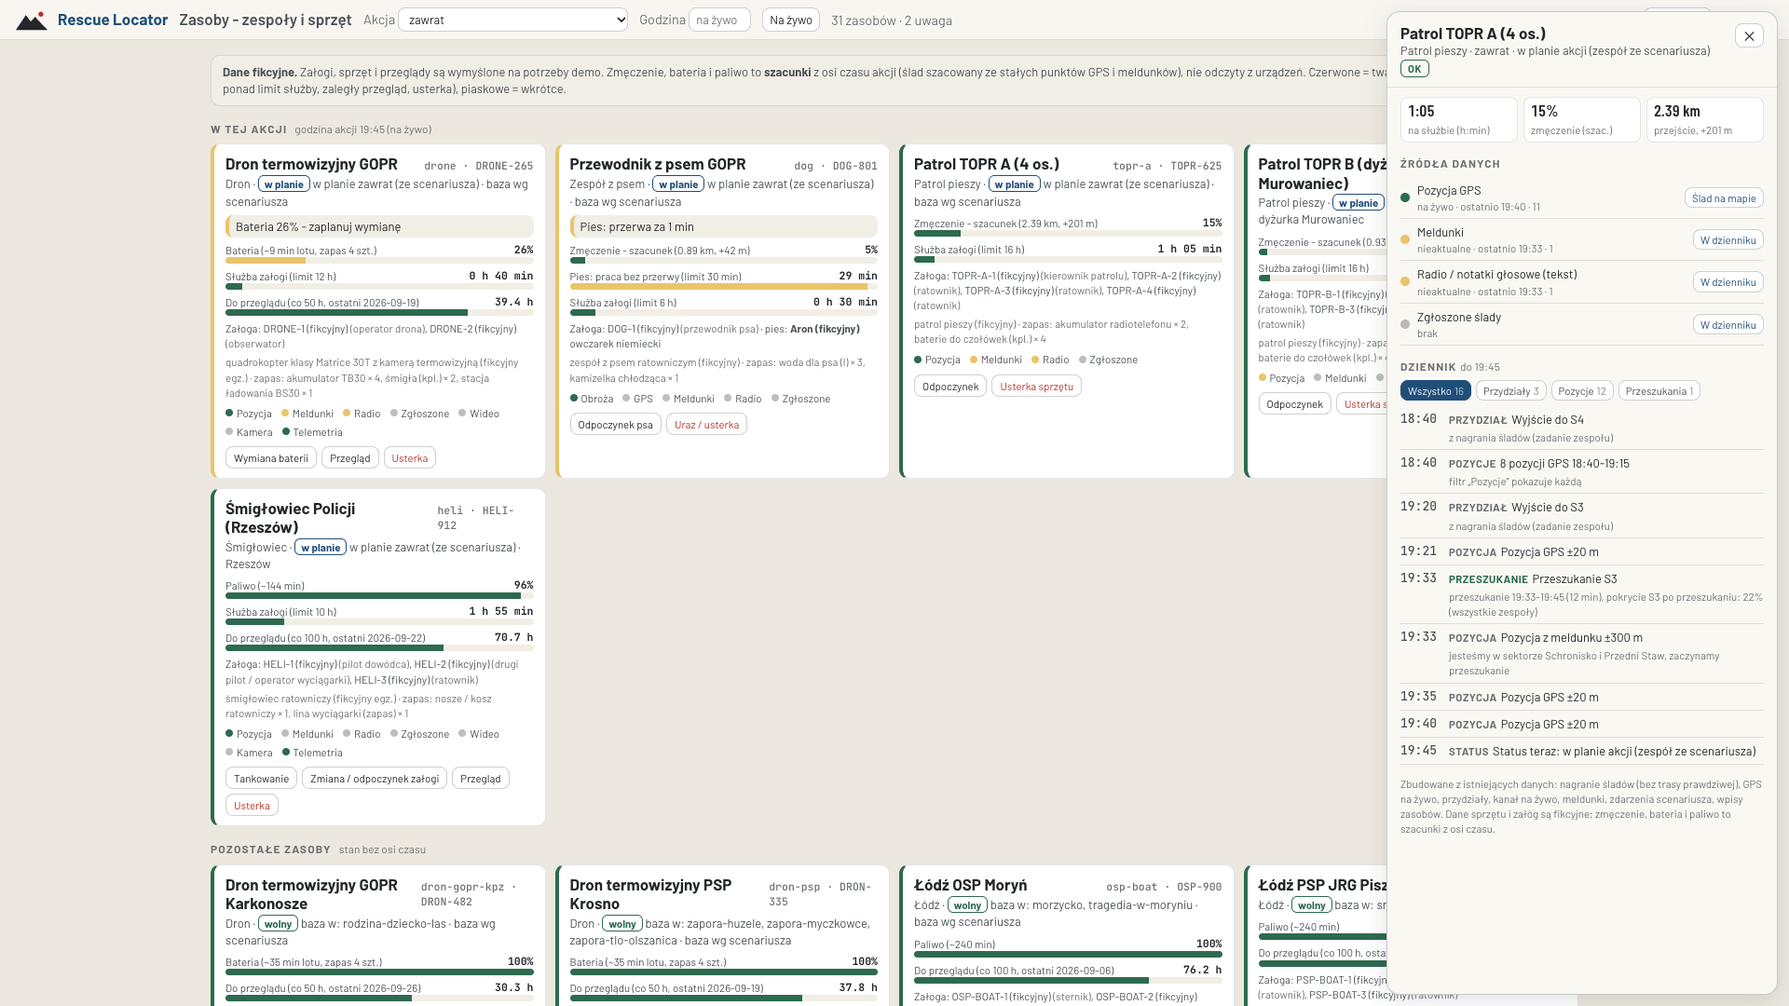
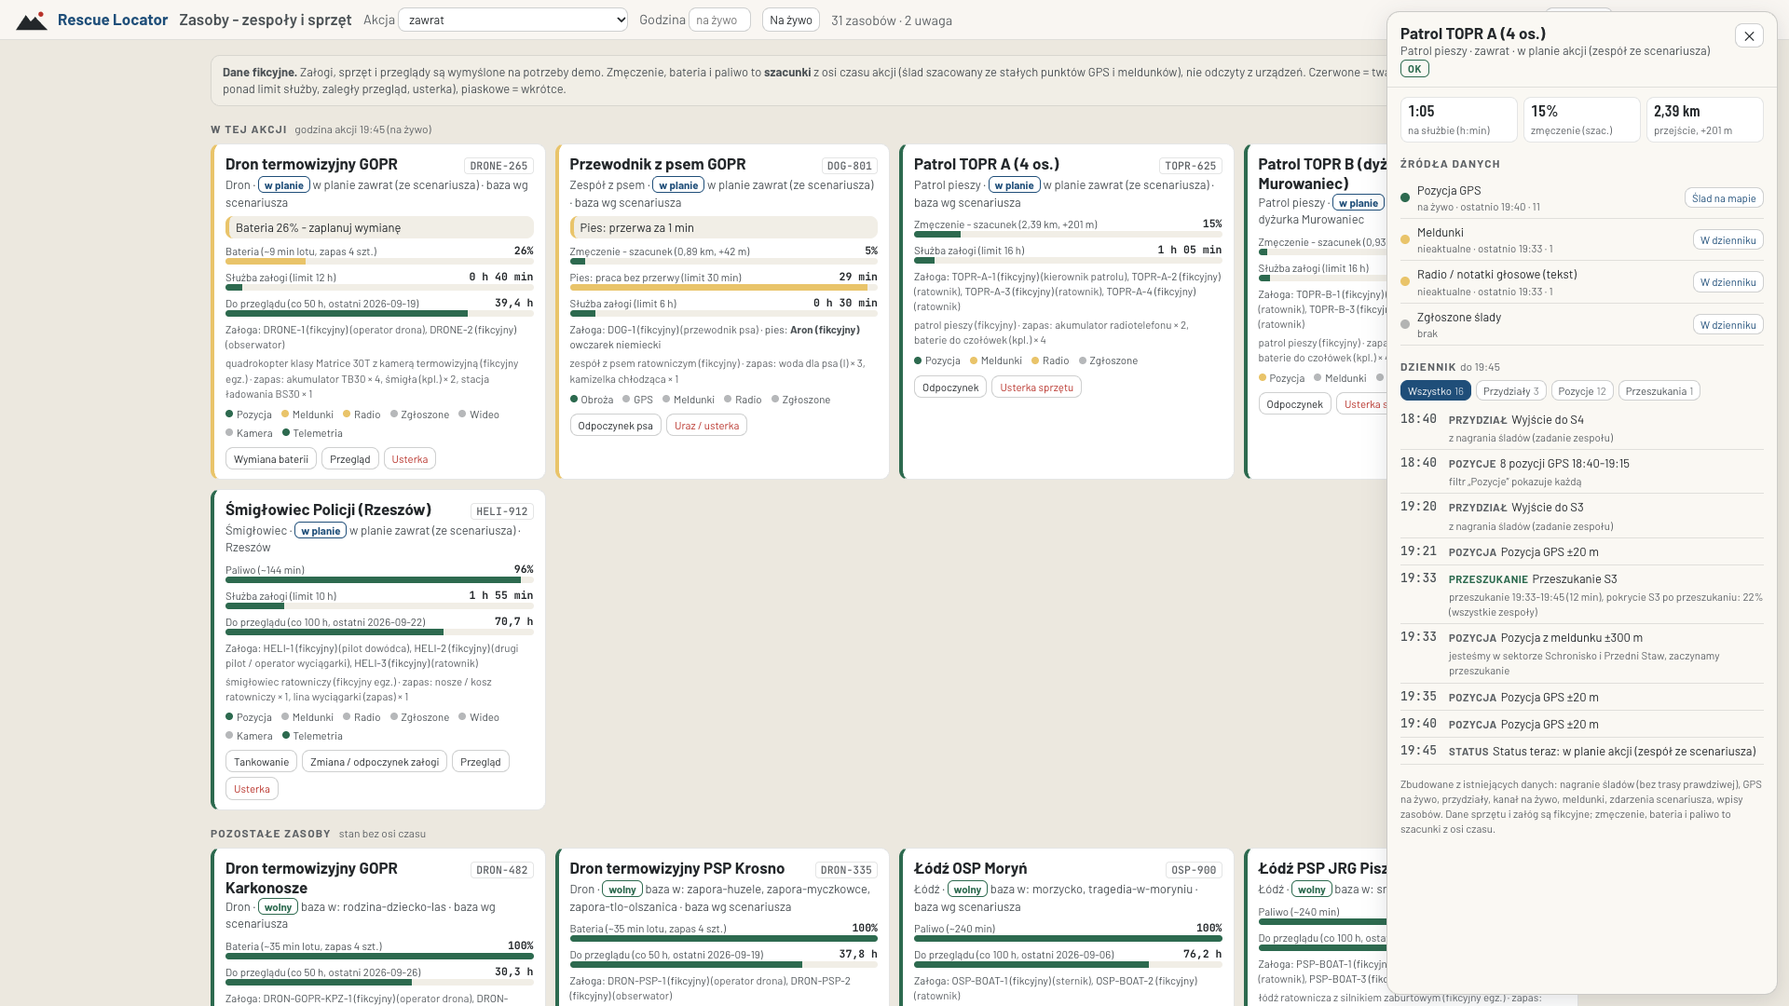
docs(rescue): screenshot series 4 on dd890df - all shots retaken, new 21-27 (Doradca bar, Czat, 3D framing, Odprawa, karty, rodzina, Sygnaly) and 1440 variants

diff --git a/docs/rescue-locator/shots/index.md b/docs/rescue-locator/shots/index.md
@@ -1,57 +1,73 @@
 # Zrzuty ekranu - Rescue Locator (do slajdów i filmu)
 
-Seria 3: produkcja https://rescue-locator.vercel.app, 2026-10-04 ok. 00:47-00:51. Wersja z /version.json: `9342527` (01-09: nowa oś czasu w doku 1x-30x z grupowanymi zdarzeniami, serwer Rust, płynne 2D/3D), w trakcie sesji wdrożono `0354c39` ("perf(rescue): 3D load bakes the terrain colour texture...") - na niej najpewniej zrobione 04-centrum-zwiniety, 16-20. Wersja widoczna też w stopce aplikacji (`v ...` w prawym dolnym rogu). Ujęcia 10-15 są z serii 2 (2026-10-03 ok. 22:04-22:37, wersje `57aaf6e` / `664f619` / `7559515`) i nie były powtarzane.
+Seria 4 (przed zamrożeniem o 05:00): produkcja https://rescue-locator.vercel.app, 2026-10-04 ok. 03:48-03:56. Wersja z /version.json: `dd890df` ("fix(rescue): 2D sector chips say only przeszukany..."), ta sama widoczna w stopce aplikacji (`v dd890df` w prawym dolnym rogu). Wszystkie ujęcia 01-20 powtórzone na tej wersji (także 10-15, które w serii 3 były ze starszej wersji), plus nowe 21-27 i warianty 1440 px dla 01 i 02.
 
-Metoda: tylko odczyt. Headless Chrome (`--headless=new --enable-unsafe-swiftshader --ignore-gpu-blocklist`) sterowany przez CDP z Node, wszystkie żądania inne niż GET/HEAD/OPTIONS blokowane (Fetch.requestPaused), żadnych kliknięć zapisujących (jedyne kliknięcie: "Zwiń" w panelu Doradca w Centrum, tylko widok). Podpowiedź pierwszego uruchomienia wyłączona przez localStorage (`rescue-app-hint-operator`, `rescue-app-hint-ratownik`). Ekran 1920 x 1080, telefon 390 x 844 (x2). 2D: 25 s czekania; 3D: czekanie aż `body[data-state=ready]` (w serii 3 gotowe po ok. 6 s), potem 10 s. Pliki powyżej ~1,5 MB zmniejszone (`sips -Z`) do 1280-1440 px szerokości. Numery funkcji jak w `../najmocniejsze-funkcje.md`.
+Metoda: tylko odczyt. Headless Chrome (`--headless=new --enable-unsafe-swiftshader --ignore-gpu-blocklist`) sterowany przez CDP z Node, w każdej ramce (auto-attach do iframe) blokowane wszystkie żądania inne niż GET/HEAD/OPTIONS (Fetch.requestPaused) - w tej serii żadne żądanie nie musiało zostać zablokowane. Podpowiedź pierwszego uruchomienia wyłączona przez localStorage (`rescue-app-hint-operator`, `rescue-app-hint-ratownik`). Po załadowaniu ruch myszy (3D czeka na zdarzenie wskaźnika), przed zrzutem wskaźnik odsunięty na logo / legendę, żeby nie było dymka terenu. Kliknięcia tylko widokowe: "Rozwiń" w Doradcy (04), przycisk ☰ Sygnały (26), otwarcie szuflady Czatu (22), Kino (15). Ekran 1920 x 1080 (01 i 02 także 1440 x 900 jako `*-1440.png`), telefon 390 x 844 (x2). 2D: czekanie aż mapa 2D ma `data-state=ready`, potem 6-8 s; 3D: czekanie aż `body[data-state=ready]`, potem 3-12 s. Pliki powyżej ~1,4 MB zmniejszone (`sips -Z`) do 1200-1440 px szerokości. Numery funkcji jak w `../najmocniejsze-funkcje.md`.
 
-Skróty URL: `A` = `/app/?role=operator&mode=akcja`, `E3` = `/app/3d/?embed=scene&sc=zawrat&run=/api/run/zawrat?live=0`.
+Na produkcji akcja LIVE to Połonina Wetlińska, dlatego wszystkie ujęcia Zawratu mają jawnie `sc=zawrat`. Skróty URL: `A` = `/app/?role=operator&mode=akcja`, `E3` = `/app/3d/?embed=scene&sc=zawrat&run=/api/run/zawrat?live=0`.
 
-## Ujęcia podstawowe (seria 3, odświeżone)
+## Ujęcia podstawowe
 
-- `01-akcja-2d-zawrat-live.png` - operator, Akcja 2D, Zawrat **Na żywo**: mapa cieplna, ślady zespołów z dokładnością, top 3 (S7 Żleb pod Zawratem #1 - Śmigłowiec TOPR, S4, S3), "7% obszaru", zasoby akcji, nowy dok z osią czasu i zdarzeniami na dole. Slajd "rozwiązanie" / funkcja 1, główny kadr filmu. URL: `A&view=2d&sc=zawrat&time=live`
-- `02-akcja-3d-zawrat.png` - operator, Akcja 3D, Zawrat Na żywo, 19:45: noc, deszcz, teren, ślady i mapa cieplna na zboczach, panel Kino/Lider/Obrót/Spacer, top 3 obok, dok z osią czasu. Funkcja 6, slajd "design" / wow. 1440 px. Uwaga: etykiety #1-#3 w 3D nie zgadzają się z panelem (patrz niżej). URL: `A&view=3d&sc=zawrat&time=live`
-- `03a-akcja-2d-zawrat-1412-bts.png` - **Historia**, krok 8/17 (18:05, "CPR 112: ostatni sektor BTS 14:12"): panel top 3 S4 / S3 / S6, przeszukano 0,0%, dok z przyciskami odtwarzania i prędkością 1x. Para "przed" do 03b. Funkcja 1-2. Uwaga: etykiety na mapie (#1 Schronisko, #2 Wielki Staw, #3 Siklawa) nie zgadzają się z panelem. URL: `A&view=2d&sc=zawrat&time=hist&step=7`
-- `03b-akcja-2d-zawrat-znaleziono.png` - Historia, krok 17/17 (20:03, ZNALEZIONO: śmigłowiec TOPR): przeszukane sektory z POD, ślady wszystkich zespołów, #1 Żleb pod Zawratem, 2 alarmy w zasobach, przeszukano 3,6%. Para "po" - funkcja 2. URL: `A&view=2d&sc=zawrat&time=hist&step=16`
-- `04-centrum.png` - Centrum - wszystkie akcje: 18 akcji (1 LIVE: Połonina Wetlińska) z top 3 każdej, 31/31 wolnych zespołów, panel Doradca rozwinięty (awaria zapory w Solinie, wynik 0,97, dowody E1-E4, prognoza fali Zagórz-Sanok, zalecane działania). Funkcja 4. "Test nocny" już się nie pokazuje, więc wariantu przyciętego nie robiłem. Doradca zasłania dolną połowę mapy. URL: `/app/centrum.html`
-- `04-centrum-zwiniety.png` - to samo z Doradcą zwiniętym do jednej linii (przycisk "Zwiń", tylko widok): widać mapę Polski z punktami akcji (Międzyzdroje, Śniardwy, Moryń, Śnieżka, Kraków, Bieszczady). Funkcja 4. URL: `/app/centrum.html` + klik "Zwiń"
-- `05-walidacja.png` - Więcej > Walidacja: 66% vs 43% (góry, N=1000), 91% vs 81% (woda, N=600), krzywa obszaru, "gdzie nie pomaga". Slajd "dowód / liczba wartości". Uwaga: plakietka "HISTORIA · NAGRANIE" nachodzi na zakładki Teren/Monitoring, a przycisk "Rola: operator" jest ucięty przy prawej krawędzi. URL: `/app/?role=operator&mode=walidacja&sc=zawrat`
-- `06-akcja-2d-krakow-nowa-huta.png` - Kraków Nowa Huta Na żywo, senior z demencją w upale: mapa miasta, top 3 (N10 Mogiła, N7 Park Lotników, N1 Os. Centrum), 19%, świadek 15:20. Funkcja 5 (miasto, Smart City). 1280 px. URL: `A&view=2d&sc=krakow-nowa-huta&time=live`
-- `07-akcja-2d-sniardwy.png` - Śniardwy Na żywo, żeglarz w wodzie: plama dryfu, #1 W2 Toń na wschód od LKP, 17%. Funkcja 5 (woda). URL: `A&view=2d&sc=sniardwy&time=live`
-- `08a-ratownik-app.png` - telefon, rola Ratownik: LIVE, Patrol TOPR A, mój sektor S3, duże przyciski meldunku. Funkcja 3. Strzałka "czekam na GPS" (headless bez GPS). URL: `/app/?role=ratownik`
-- `08b-patrol-standalone.png` - telefon, samodzielna strona patrolu: sektor S3, kierunek i 3,1 km na wschód, "łączność OK". Funkcja 3. URL: `/web/patrol/?team=topr-a&run=/api/run/zawrat&me=49.2205,20.0105`
-- `09a-widzialem-karta.png` - telefon, strona obywatela: karta osoby zaginionej (fikcyjnej, Józef K.) i przycisk "Widziałem tę osobę". Funkcja 5 (miasto). URL: `/web/seen/`
+- `01-akcja-2d-zawrat-live.png` - operator, Akcja 2D, Zawrat Na żywo 19:45: mapa cieplna, ślady zespołów, top 3 (S7 Żleb pod Zawratem - Śmigłowiec TOPR, S4 Wielki Staw, S3 Schronisko), "7% obszaru", zasoby akcji, dok z osią czasu, przycisk Czat w pasku. Etykiety #1-#3 na mapie zgodne z panelem. Slajd "rozwiązanie" / funkcja 1, główny kadr filmu. URL: `A&view=2d&sc=zawrat&time=live`
+- `01-akcja-2d-zawrat-live-1440.png` - to samo przy 1440 x 900 (laptop / projektor). URL jak wyżej.
+- `02-akcja-3d-zawrat.png` - operator, Akcja 3D, Zawrat Na żywo 19:45: noc, deszcz, teren, mapa cieplna na zboczach, etykiety #1 Żleb pod Zawratem, #2 Wielki Staw, #3 Schronisko (teraz zgodne z panelem), panel Kino/Lider/Obrót/Spacer, top 3 obok. Funkcja 6, slajd "design" / wow. 1280 px. URL: `A&view=3d&sc=zawrat&time=live`
+- `02-akcja-3d-zawrat-1440.png` - to samo przy 1440 x 900. URL jak wyżej.
+- `03a-akcja-2d-zawrat-1412-bts.png` - Historia, krok 8/17 (18:05, "CPR 112: ostatni sektor BTS 14:12"): top 3 S4 / S3 / S6, przeszukano 0,0%, etykiety na mapie zgodne z panelem. Para "przed" do 03b. Funkcja 1-2. URL: `A&view=2d&sc=zawrat&time=hist&step=7`
+- `03b-akcja-2d-zawrat-znaleziono.png` - Historia, krok 17/17 (20:03, ZNALEZIONO: śmigłowiec TOPR): przeszukane sektory, ślady wszystkich zespołów. Para "po" - funkcja 2. URL: `A&view=2d&sc=zawrat&time=hist&step=16`
+- `04-centrum.png` - Centrum - wszystkie akcje: 18 akcji (1 LIVE: Połonina Wetlińska) z top 3 każdej, 31/31 wolnych zespołów, Doradca **rozwinięty** (klik "Rozwiń"): zapora w Solinie, dowody E1-E4, prognoza fali Zagórz - Sanok, zalecane działania. Funkcja 4. URL: `/app/centrum.html` + klik "Rozwiń"
+- `04-centrum-zwiniety.png` - Centrum w stanie domyślnym: Doradca jako cienki pasek na dole, mapa Polski z punktami akcji odsłonięta. Ten sam plik co 21. Funkcja 4. URL: `/app/centrum.html`
+- `05-walidacja.png` - Więcej > Walidacja: 66% vs 43% (góry, N=1000), 91% vs 81% (woda, N=600), krzywa obszaru, "gdzie nie pomaga". Slajd "dowód / liczba wartości". Uwaga: pasek górny łamie się na dwie linie (patrz niżej). URL: `/app/?role=operator&mode=walidacja&sc=zawrat`
+- `06-akcja-2d-krakow-nowa-huta.png` - Kraków Nowa Huta Na żywo, senior z demencją w upale: mapa miasta, top 3, świadek. Funkcja 5 (miasto, Smart City). 1200 px. URL: `A&view=2d&sc=krakow-nowa-huta&time=live`
+- `07-akcja-2d-sniardwy.png` - Śniardwy Na żywo, żeglarz w wodzie: plama dryfu, top 3 na wodzie. Funkcja 5 (woda). URL: `A&view=2d&sc=sniardwy&time=live`
+- `08a-ratownik-app.png` - telefon, rola Ratownik: Patrol TOPR A, mój sektor S3 Schronisko i Przedni Staw, duże przyciski meldunku, "łączność OK". Funkcja 3. Strzałka "czekam na GPS" (headless bez GPS). URL: `/app/?role=ratownik`
+- `08b-patrol-standalone.png` - telefon, samodzielna strona patrolu: sektor S3, kierunek i odległość. Funkcja 3. URL: `/web/patrol/?team=topr-a&run=/api/run/zawrat&me=49.2205,20.0105`
+- `09a-widzialem-karta.png` - telefon, strona obywatela: karta osoby zaginionej (fikcyjnej) i przycisk "Widziałem tę osobę". Funkcja 5 (miasto). URL: `/web/seen/`
 
-## Ujęcia 3D i oś czasu (seria 2, bez zmian)
+## Ujęcia 3D i oś czasu
 
-- `10-3d-zawrat-dzien.png` - 3D, Zawrat 17:40 (krok 5): niebo i słońce wg godziny, mgła w dolinach, odbicia w stawach, mapa cieplna i top 3 na zboczach. Slajd "design" / wow, otwarcie filmu. 1440 px. URL: `E3&step=4`
-- `11-3d-zawrat-noc.png` - 3D, Zawrat 19:45 (krok 16, po zmroku), powtórzony 22:37 na wersji 7559515 (ciemniejsza noc z 202ec42): ciemny teren, deszcz, mapa cieplna i ślady czytelne. Para dzień/noc z 10. 1440 px. URL: `E3&step=15`
-- `12-3d-os-czasu.png` - 3D z osią czasu na 19:20 (`postMessage({type:'time',minute:100})`): ślady GPS i szacowane, okręgi dokładności, pokrycie (POD), etykiety zdarzeń z godzinami. Funkcja 2 (pokrycie). 1400 px. URL: `E3&step=13` + postMessage
-- `13-3d-fpp.png` - 3D, widok z perspektywy Patrolu TOPR A (`time` minute 90, potem `postMessage({type:'fpp',actorId:'topr-a'})`), powtórzony 22:37 na wersji 7559515 (kamera na powierzchni terenu i przygaszona mapa z ad29f77): stok z trawą, ślady i Wielki Staw w tle, bez czerwonej ziemi. Krótki kadr do filmu. URL: `E3&step=13` + postMessage
-- `14-2d-os-czasu.png` - operator 2D w trybie Historia, krok 14/17 (19:20): ślady GPS i szacowane z dokładnością (Patrol TOPR A ±29 m, Dron ±78 m), pole widzenia, pokrycie, legenda "przeszukano 0,3% obszaru". 2D pokazuje oś czasu (ślady), więc ujęcie zrobione. URL: `A&view=2d&sc=zawrat&time=hist&step=13`
-- `15-3d-kino.png` - tryb Kino (pasy kinowe, napis "17:46 Plan od żony: na Zawrat i z powrotem"), niski przelot nad doliną nocą. Nie ma parametru URL ani komunikatu postMessage dla Kina - włączony przyciskiem "Kino" przez `document.getElementById('btn-cine').click()`; to tylko ruch kamery, bez zapisu (i tak wszystko poza GET było blokowane). Kadr ok. 14 s po starcie. URL: `E3&step=4` + klik Kino
+- `10-3d-zawrat-dzien.png` - 3D, Zawrat 17:40 (krok 5): dzień, mgła w dolinach, stawy, mapa cieplna i top 3 tamtej chwili (#1 Schronisko, #2 Siklawa, #3 Wielki Staw). Otwarcie filmu. 1280 px. URL: `E3&step=4`
+- `11-3d-zawrat-noc.png` - 3D, Zawrat 19:45 (krok 16, po zmroku): ciemny teren, deszcz, mapa cieplna i ślady. Para dzień/noc z 10. 1280 px. URL: `E3&step=15`
+- `12-3d-os-czasu.png` - 3D z osią czasu na 19:20 (`postMessage({type:'time',minute:100})`): ślady GPS i szacowane, pokrycie (POD), etykiety zdarzeń. Funkcja 2. 1280 px. URL: `E3&step=13` + postMessage
+- `13-3d-fpp.png` - 3D z perspektywy Patrolu TOPR A (`time` minute 90, potem `postMessage({type:'fpp',actorId:'topr-a'})`): stok z trawą, staw w tle. Krótki kadr do filmu. URL: `E3&step=13` + postMessage
+- `14-2d-os-czasu.png` - 2D Historia, krok 14/17 (19:20): ślady GPS i szacowane z dokładnością, pole widzenia, pokrycie. Funkcja 2. URL: `A&view=2d&sc=zawrat&time=hist&step=13`
+- `15-3d-kino.png` - tryb Kino (pasy kinowe, napis "17:46 Plan od żony: na Zawrat i z powrotem"), przelot nad doliną. Włączony przez `document.getElementById('btn-cine').click()` (tylko kamera), kadr ok. 14 s po starcie. URL: `E3&step=4` + klik Kino
 
-## Nowe ujęcia (seria 3)
+## Pozostałe ekrany
 
-- `16-zasoby.png` - Zasoby - zespoły i sprzęt, akcja Zawrat 19:45: karty jednostek (bateria drona, praca psa, służba załogi, przeglądy) i otwarty **dziennik jednostki** Patrol TOPR A (źródła danych, 16 wpisów: przydziały, pozycje GPS, przeszukanie S3). Funkcja "Na żywo, Zasoby, dziennik". Dziennik otwarty parametrem `actor` (to samo co kliknięcie karty, tylko odczyt). URL: `/app/zasoby.html?sc=zawrat&actor=topr-a`
-- `17-cwiczenia.png` - Ćwiczenia, ekran startowy "Przejmij akcję w trakcie": 3 ćwiczenia (Połonina Wetlińska, Morskie Oko, Śniardwy) z godziną przejęcia i liczbą zespołów. Slajd "trening / dalszy rozwój". Odprawa nie zrobiona - przycisk "Odprawa" wysyła POST `/api/exercise/start` (zapis). URL: `/app/cwiczenia.html`
-- `18-porownanie.png` - Co zmienia jedna relacja: ta sama akcja na Zawracie o 19:22 bez relacji i z relacją turystki (zakosy niebieskiego szlaku 14:35): top 3 zmienia się z S4 / S7 / S3 (7,0% obszaru) na S7 / S6 / S9 (5,4%), z oznaczeniami "był 2.", "nowy, był 5./8.". Funkcja 1-2 (każda poszlaka zmienia mapę). Strona próbuje POST `/api/run` (zablokowany) i pokazuje mapy z gotowych danych `porownanie-data/`; relacja włącza się sama po 1,5 s. URL: `/app/porownanie.html`
-- `19-slad-zdjecie.png` - Ślad: zdjęcie - gdzie zrobiono to zdjęcie (desktop): syntetyczne zdjęcie z wykrytą linią horyzontu, mapa prawdopodobieństwa miejsca, 5 kandydatów i stożek widoku, wynik 1/3600, 61 m, 1°, mediana 40 m. Slajd "AI / poszlaki". URL: `/web/photo/`
-- `19b-slad-zdjecie-telefon.png` - to samo na telefonie (390 x 844 x2), górna część: zdjęcie, przełącznik bez GPS / z GPS (EXIF), początek mapy. URL: `/web/photo/`
-- `20-landing.png` - strona produktu, wersja "Dla zespołów SAR": "Gdzie szukać najpierw - w pierwszych godzinach akcji", kadr 3D Zawratu, problem pierwszych godzin, karty funkcji "działa w pokazie". Slajd tytułowy / zamknięcie. URL: `/landing?dla=sar` (307 na `/app/landing/?dla=sar`)
+- `16-zasoby.png` - Zasoby - zespoły i sprzęt, Zawrat: karty jednostek i otwarty dziennik Patrolu TOPR A. Funkcja "Zasoby, dziennik". URL: `/app/zasoby.html?sc=zawrat&actor=topr-a`
+- `17-cwiczenia.png` - Ćwiczenia, ekran startowy "Przejmij akcję w trakcie". Slajd "trening / dalszy rozwój". URL: `/app/cwiczenia.html`
+- `18-porownanie.png` - Co zmienia jedna relacja: Zawrat 19:22 bez relacji i z relacją turystki: top 3 S4 / S7 / S3 (7,0%) zmienia się na S7 / S6 / S9 (5,4%) z oznaczeniami "był 2.", "nowy, był 5./8.". Funkcja 1-2. URL: `/app/porownanie.html`
+- `19-slad-zdjecie.png` - Ślad: zdjęcie - gdzie zrobiono to zdjęcie (desktop). Slajd "AI / poszlaki". URL: `/web/photo/`
+- `19b-slad-zdjecie-telefon.png` - to samo na telefonie. URL: `/web/photo/`
+- `20-landing.png` - strona produktu "Dla zespołów SAR". Slajd tytułowy / zamknięcie. URL: `/landing?dla=sar`
+
+## Nowe ujęcia (seria 4, prośba AI Mateusza #2)
+
+- `21-centrum-doradca-pasek.png` - Centrum z Doradcą jako cienkim paskiem ("ALARM", "Zapora w Solinie: fala na Sanie - 5 akcji - Pokaż szczegóły", przycisk "Rozwiń"), cała mapa akcji widoczna. Funkcja 4 (Centrum, wspólne źródło zdarzeń). URL: `/app/centrum.html`
+- `22-czat-w-pasku.png` - Akcja 2D Na żywo z przyciskiem "Czat" w górnym pasku i otwartą szufladą czatu (tryb NA ŻYWO, podpowiedzi zdań, pole "Napisz, co się stało..."). Szuflada otwarta przez `window.rescueChat.open(true)` - to samo co klik przycisku; w trybie Na żywo nie wysyła żadnego POST (nic nie zablokowano). Slajd "czat / zwykłe zdanie zmienia mapę". URL: `A&view=2d&sc=zawrat&time=live` (alternatywnie `&chat=1`)
+- `23-3d-kadr.png` - Akcja 3D Na żywo 3 s po gotowości sceny: nowy kadr kamery (frameScene) obejmuje IPP i top 3, etykiety #1-#3 zgodne z panelem. Funkcja 6. 1280 px. URL: `A&view=3d&sc=zawrat&time=live`
+- `24-odprawa.png` - Odprawa kierownika akcji, Zawrat 19:45 (jedna strona A4 do druku): schemat sektorów, kogo szukamy, ostatni znany punkt, pogoda i światło z ryzykiem hipotermii, top 3, przydział zespołów z uwagami bezpieczeństwa, ostatnia godzina, łączność. Slajd "od mapy do działania". URL: `/app/odprawa.html?sc=zawrat`
+- `24b-karty-zadan.png` - Karty zadań (po jednej na zespół): Śmigłowiec TOPR - S7, Zespół z psem - S4, mapka sektora, współrzędne środka, czasy dojścia i przeszukania, POD, meldunek zwrotny. URL: `/app/odprawa.html?sc=zawrat&karty=1`
+- `25-rodzina.png` - strona dla rodziny (desktop): "Ktoś zaginął? Najpierw zadzwoń 112", numery 985 / 601 100 300 / 601 100 100, formularz "Przygotuj zgłoszenie". Funkcja 5 (obywatel / rodzina). URL: `/app/rodzina.html`
+- `25b-rodzina-telefon.png` - to samo na telefonie 390 x 844. URL: `/app/rodzina.html`
+- `26-sygnaly.png` - Akcja 2D Na żywo z otwartym panelem Sygnały (☰ w doku): karty wszystkich zdarzeń z polskimi nazwami źródeł (Teren, Trudność terenu, Pogoda, Statystyka zaginięć, Plan wycieczki, Auto na parkingu, Lokalizacja 112, IMGW...), wagi i przełączniki. Funkcja 2 (każda poszlaka widoczna i wyłączalna). URL: `A&view=2d&sc=zawrat&time=live` + klik ☰
+- `27-porownanie.png` - odświeżone "Co zmienia jedna relacja" - ten sam plik co 18 (strona się nie zmieniła względem 18 z tej serii). URL: `/app/porownanie.html`
 
 ## Pominięte
 
-- Formularz "Widziałem" - otwiera się dopiero po kliknięciu przycisku (brak parametru URL), więc go nie robiłem.
-- Odprawa i gra w Ćwiczeniach - start sesji to POST `/api/exercise/start` (zapis), zablokowany; zrobiony tylko ekran listy (17).
-- `04-centrum-crop.png` - niepotrzebny, "Test nocny" już nie występuje.
-- 10-15 nie powtarzane w serii 3 (opisy wyżej bez zmian).
-- `porownanie-przed.jpg`, `porownanie-po.jpg` - starsze pliki w tym katalogu, nie z tej serii, zostawione bez zmian.
+- Formularz "Widziałem" - otwiera się dopiero po kliknięciu (brak parametru URL), nie robiony.
+- Odprawa i gra w Ćwiczeniach - start sesji to POST `/api/exercise/start` (zapis), nie robione; jest tylko ekran listy (17).
+- Czat w trybie Historia z symulacją - wysłanie zdania to POST `/api/run` (zapis / obliczenie), nie robione; 22 pokazuje pustą szufladę.
+- `porownanie-przed.jpg`, `porownanie-po.jpg`, `czat-*.jpg`, `kamera-*.jpg`, `etykiety3d-*.jpg`, `pogoda3d-*.jpg`, `odprawa-*`, `rodzina-*.jpg`, `qa-*.jpg` - pliki z innych serii w tym katalogu, zostawione bez zmian.
 
-## Co wyglądało na błąd na produkcji (seria 3)
+## Co wyglądało na błąd na produkcji (seria 4, `dd890df`)
 
-- Akcja 2D, Historia krok 8 (`A&view=2d&sc=zawrat&time=hist&step=7`): etykiety top 3 na mapie (#1 Schronisko i Przedni Staw, #2 Wielki Staw, #3 Siklawa / Roztoka górna) inne niż panel "Gdzie szukać najpierw" (S4 Wielki Staw, S3 Schronisko, S6 Szlak niebieski).
-- Akcja 3D Na żywo (`A&view=3d&sc=zawrat&time=live`): etykiety w 3D #1 Wielki Staw, #2 Schronisko i Przedni Staw, #3 Szlak niebieski, a panel pokazuje S7 Żleb pod Zawratem, S4, S3 (2D na żywo jest zgodne z panelem).
-- Centrum (`/app/centrum.html`): klik "Zwiń" w Doradcy rzuca `TypeError: Cannot set properties of null (setting 'onclick')` w `advRender` (centrum.js:413, `el.querySelector(".advllm")` nie istnieje w widoku zwiniętym). Panel się zwija, ale błąd w konsoli.
-- Walidacja (`/app/?role=operator&mode=walidacja&sc=zawrat`): plakietka "HISTORIA · NAGRANIE" nachodzi na zakładki, "Rola: operator" ucięta przy 1920 px.
-- Zasoby akcji w panelu operatora dla Krakowa i Śniardw pokazują jednostki GOPR / "Policja Gryfino" / "Nurkowie PSP (SGRW Szczecin)" - nazwy nie pasują do miejsca akcji (dane demo).
-- `/favicon.ico` 404 na `/web/patrol/`, `/web/seen/`, `/app/landing/` (kosmetyka).
+- Naprawione od serii 3: etykiety top 3 w 2D Historia (03a) i w 3D Na żywo (02, 23) są teraz zgodne z panelem "Gdzie szukać najpierw".
+- Akcja, górny pasek przy 1920 px (`A&view=2d&sc=zawrat&time=live`): tytuł akcji obok "LIVE" ucięty do "D..." (`scenTitle`); przy 1440 px znika też napis "Rescue Locator" i plakietka LIVE. Nad paskiem, przy x ok. 1340, wystaje ucięta plakietka "Auto".
+- Akcja, szuflada Czatu (`A&view=2d&sc=zawrat&time=live&chat=1`): zasłania panel "Gdzie szukać najpierw" i ucina przycisk "Zasoby" w pasku; podpowiedzi zdań (chipy) są ucięte - te same zdania o Zawracie ("Widziałem kogoś przy schronisku...") pojawiają się też w akcjach Kraków i Śniardwy.
+- Walidacja (`/app/?role=operator&mode=walidacja&sc=zawrat`): przy 1920 px pasek górny łamie się na dwie linie ("?" i "Rola: operator" w drugim rzędzie).
+- Akcja 2D: drobne nachodzenie etykiet - "S16" na podpisie "50% - 3 km", "S9 / Patrol B" na sobie; w 1440 px "Zespół z psem" zasłania "IPP". W porównaniu (18) "#2 Szlak niebieski..." nachodzi na S4.
+- Odprawa, karty zadań (`/app/odprawa.html?sc=zawrat&karty=1`): w karcie Śmigłowca tekst "Brak uwag silnika i sprzętu" (dziwne sformułowanie), przeszukanie S7 "1 min"; w odprawie (`/app/odprawa.html?sc=zawrat`) pole "Kanał akcji" puste, "Patrol TOPR A przeszukuje S3 do 23:47".
+- Zasoby akcji w panelu operatora dla Krakowa i Śniardw nadal pokazują jednostki GOPR / "Policja Gryfino" / "Śmigłowiec Policji (Rzeszów)" - nazwy nie pasują do miejsca akcji (dane demo).
+- 3D FPP (13): ziemia pod nogami ciemnoczerwono-brązowa (tak samo jak w serii 2-3, nie regresja).
+- Konsola: brak błędów JS na wszystkich ujęciach; jedynie ostrzeżenie "Geolocation support is not available" na telefonie (headless).
